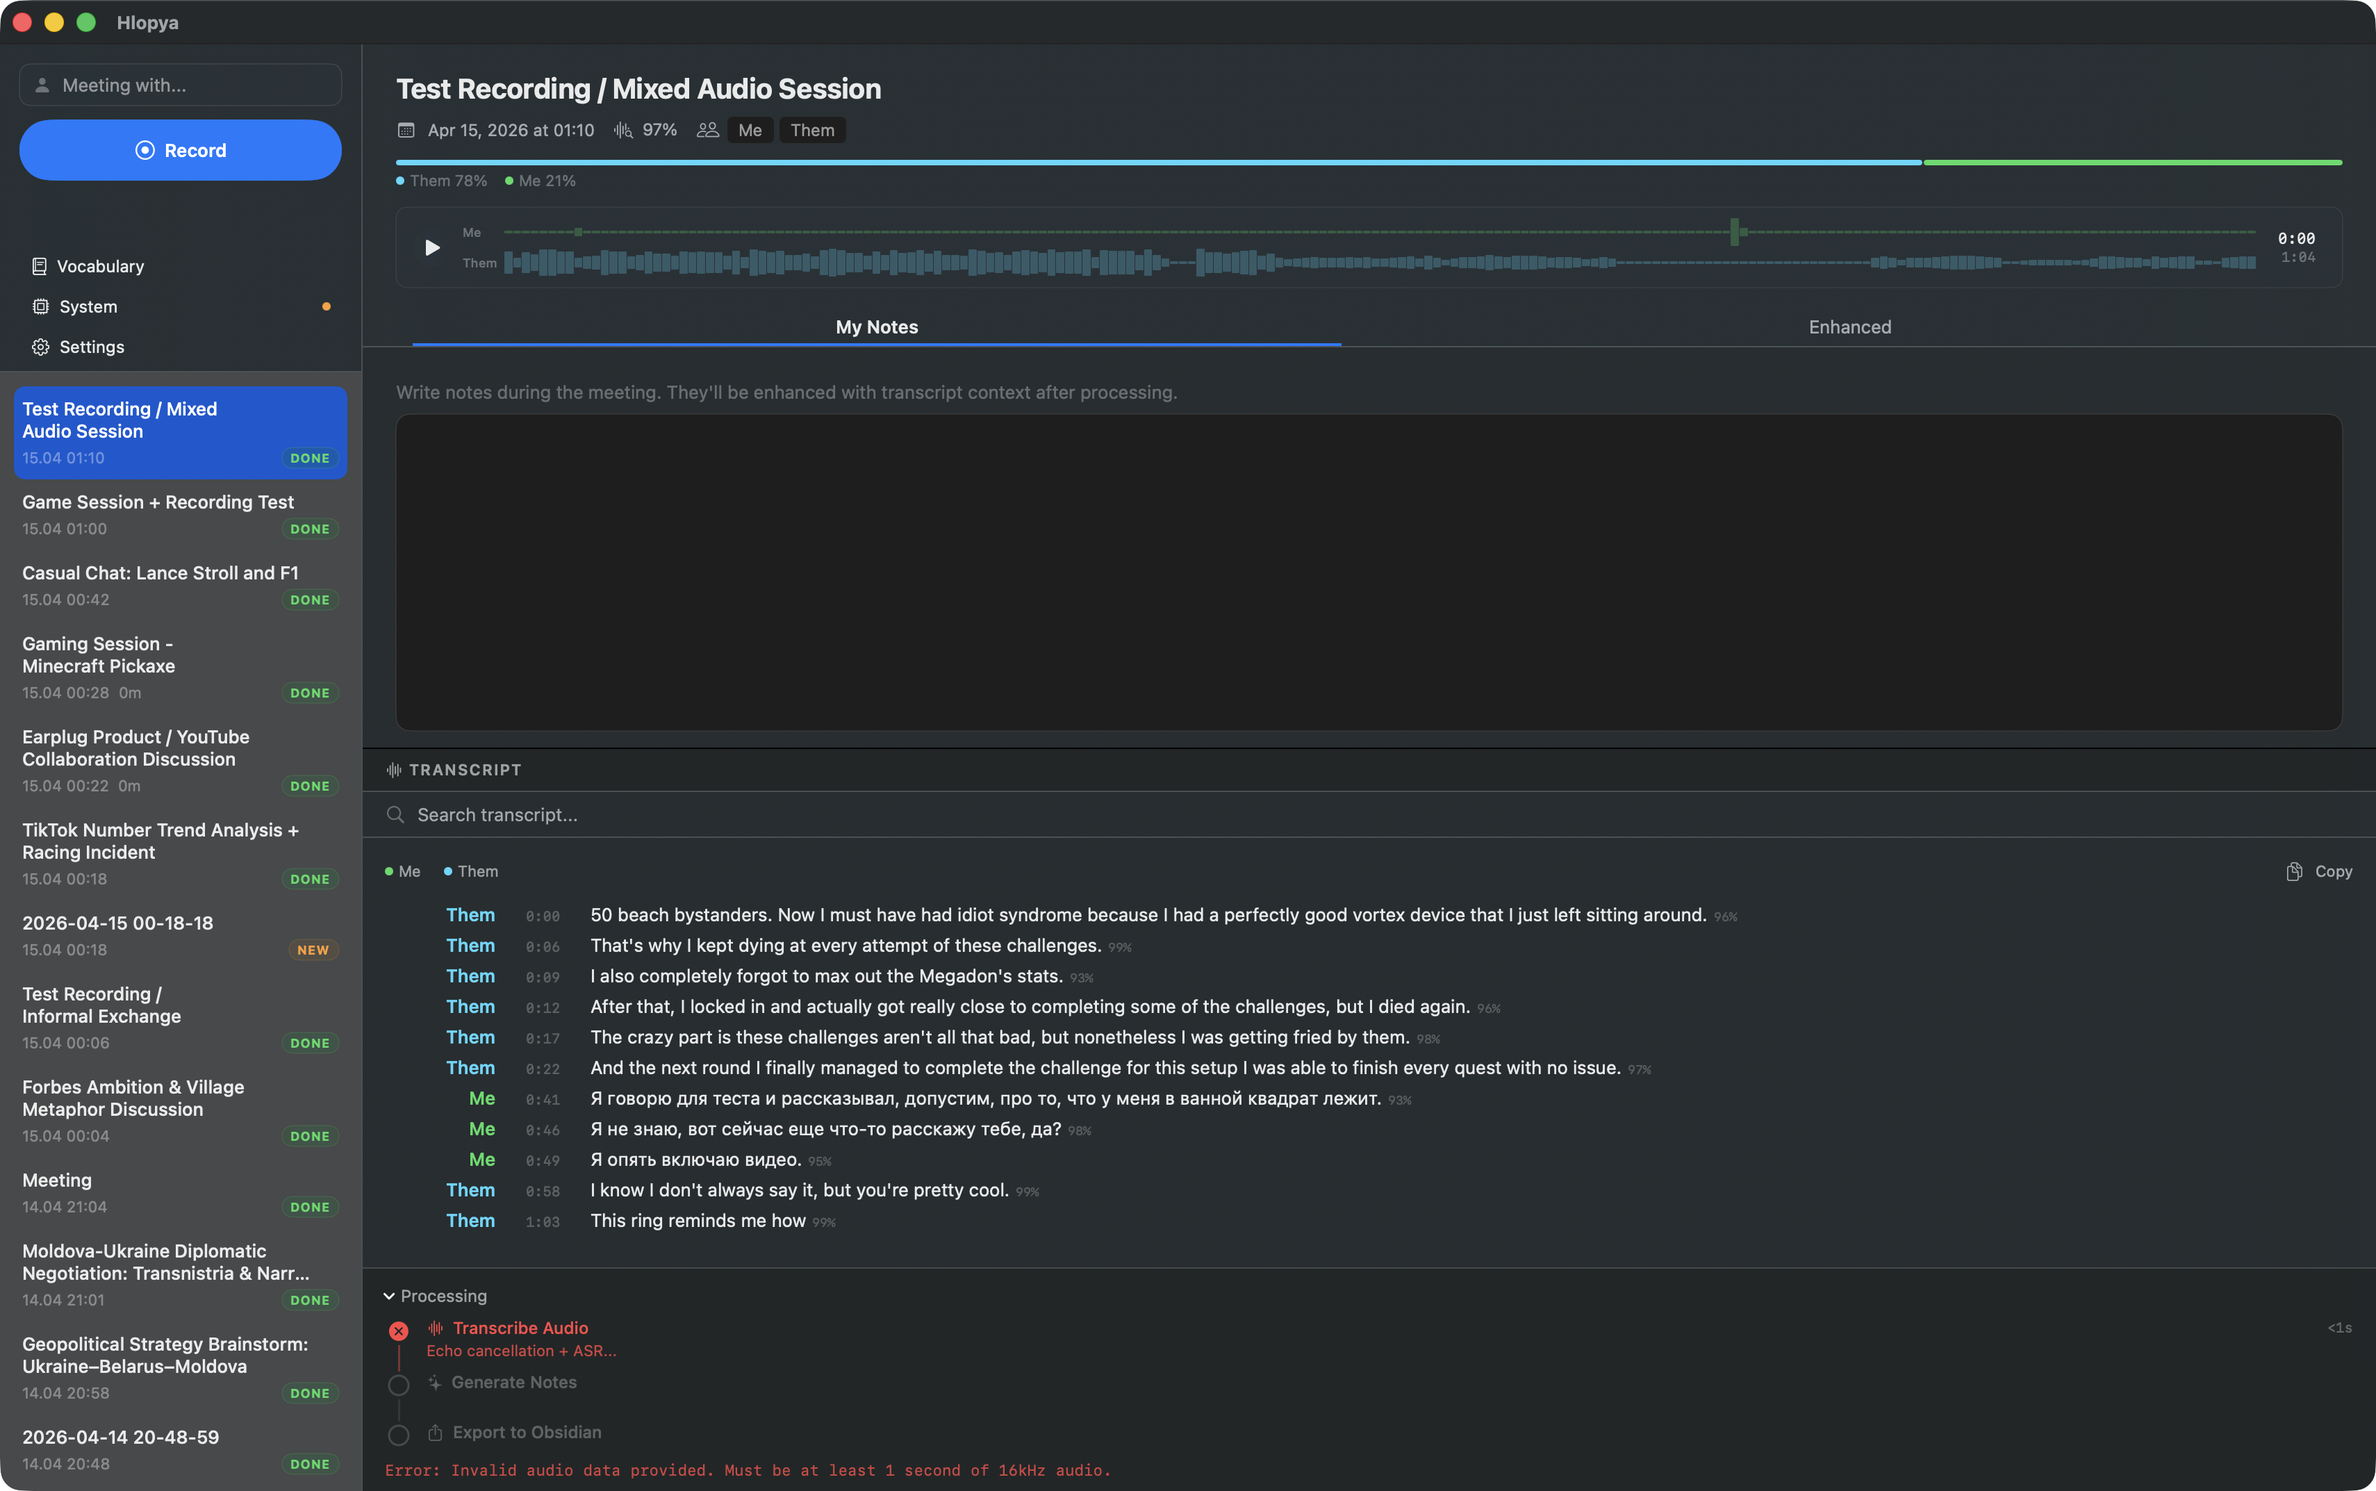
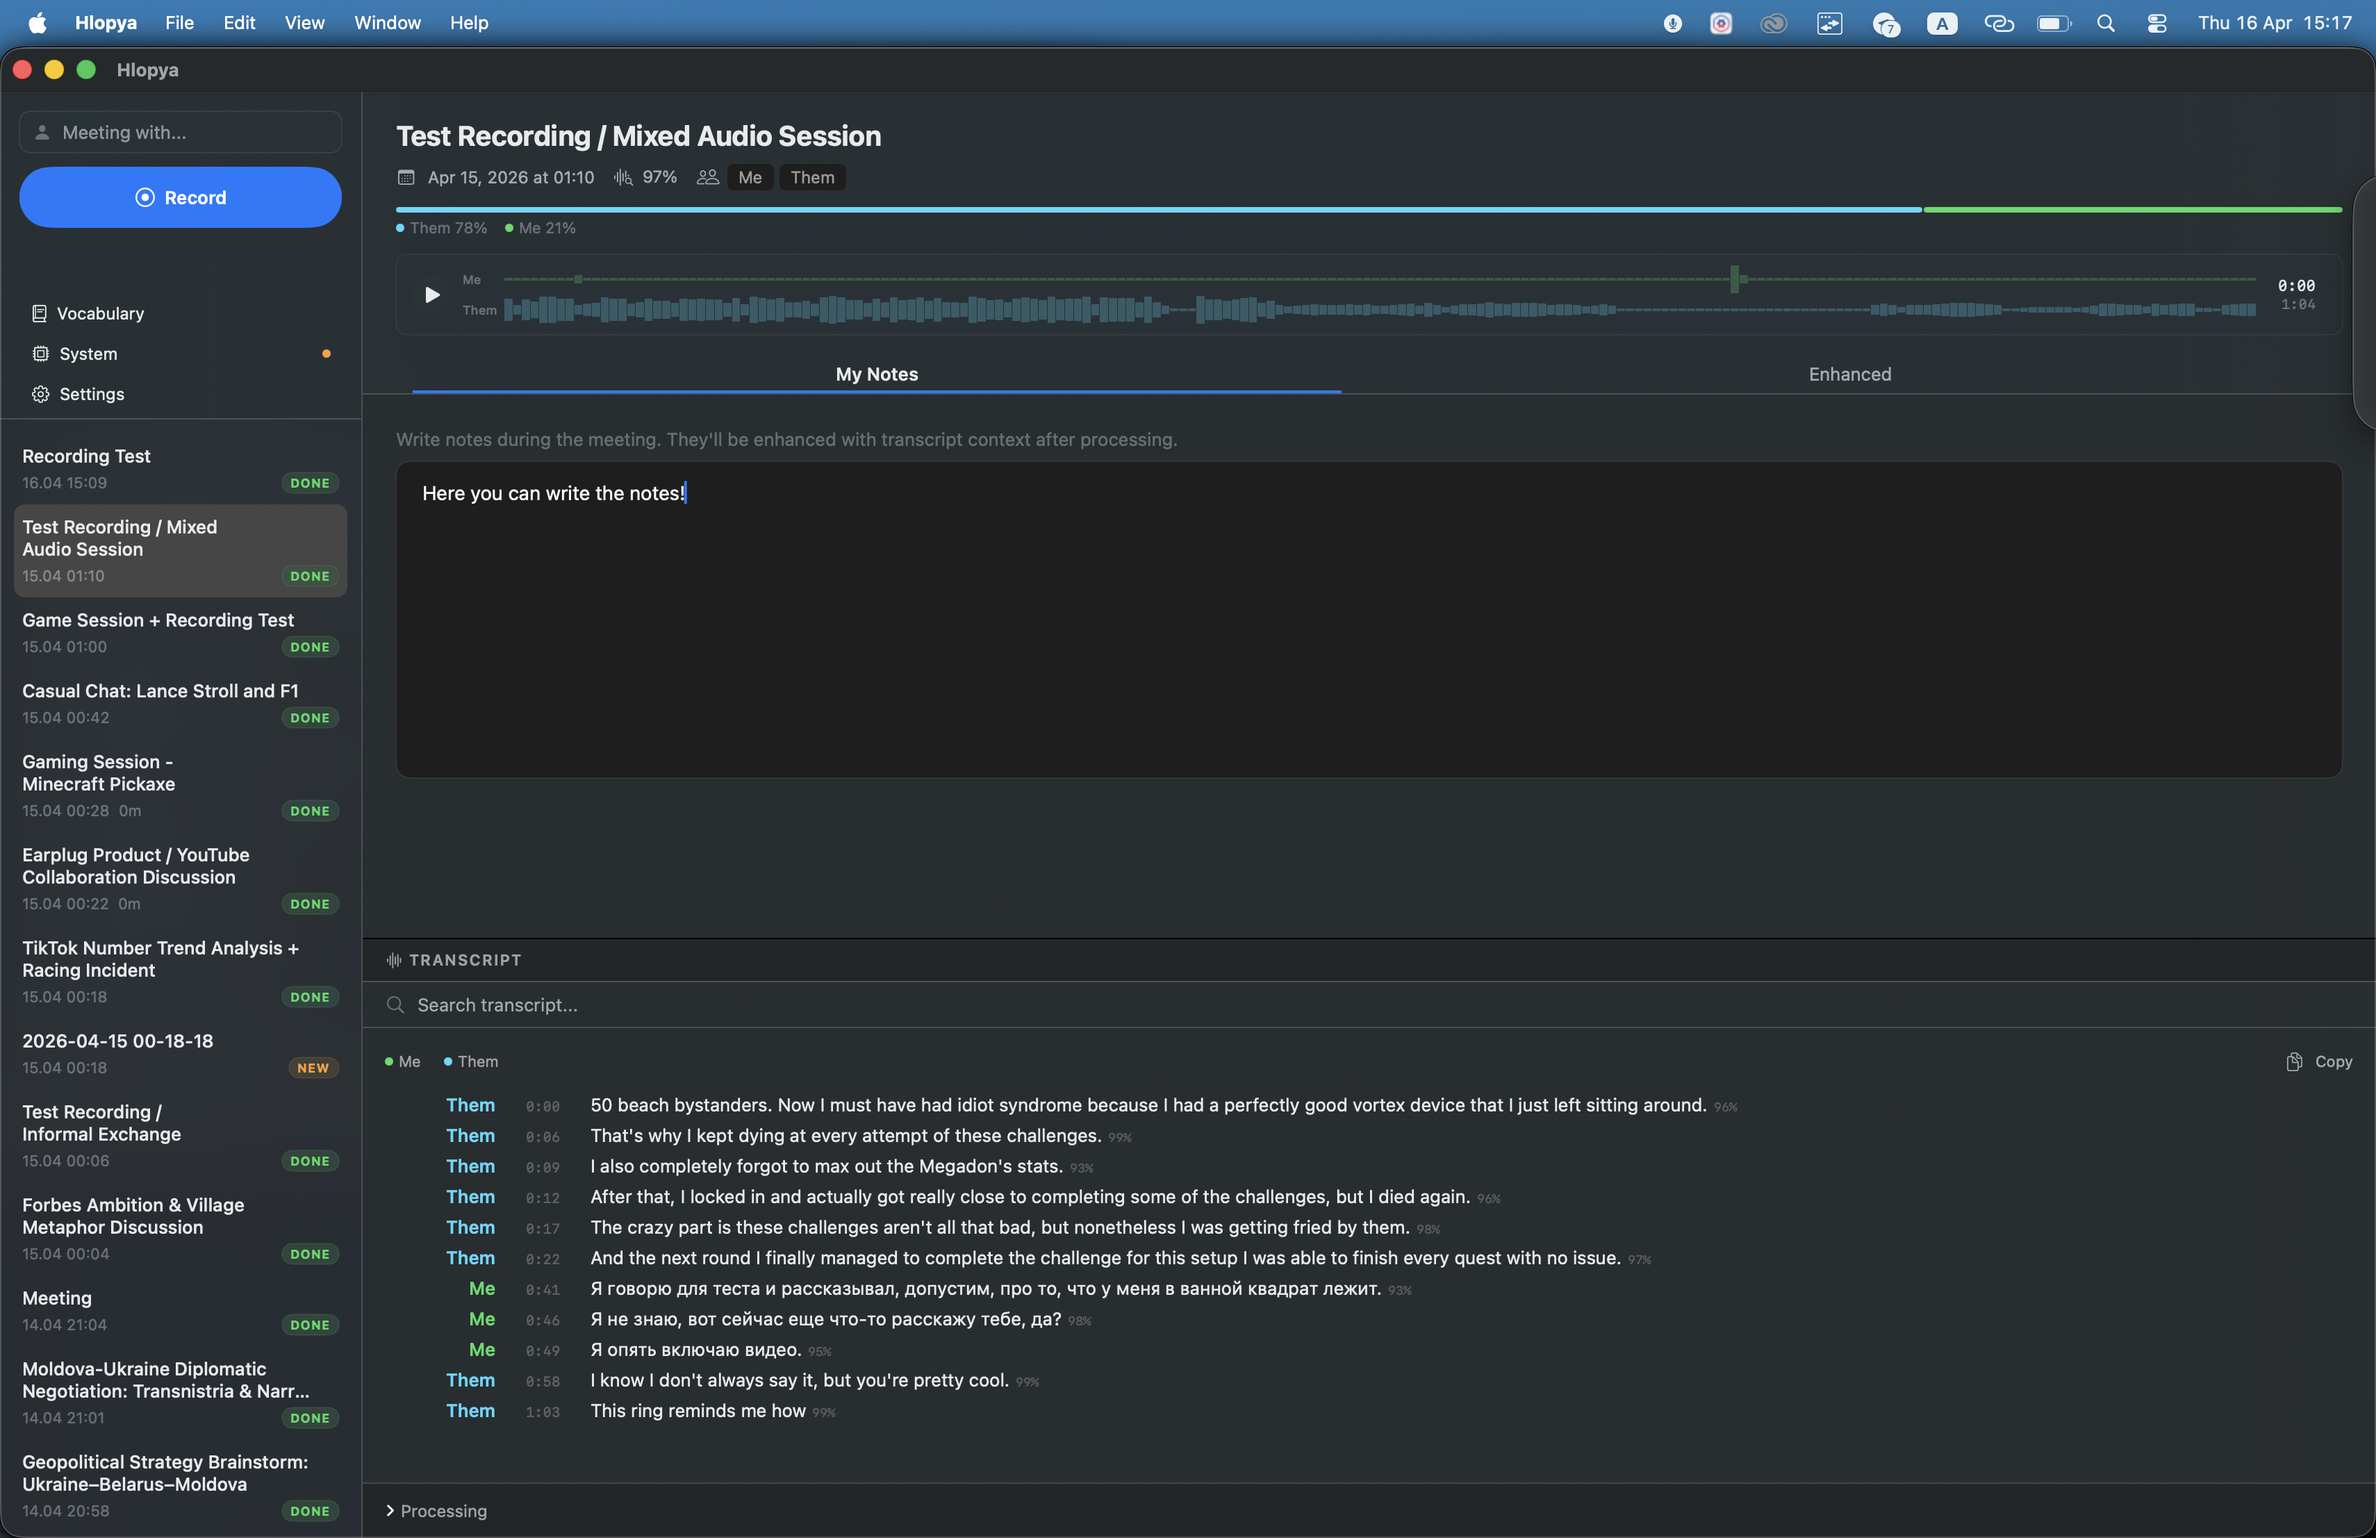
docs: better screenshots — live recording hero + Notes/Enhanced split
- Hero is now mid-recording: floating timer, REC badge in sidebar,
  live session at the top — proves it actually does the thing
- 'You write rough notes, Claude rewrites them' section: side-by-side
  My Notes (raw) vs Enhanced (Claude's structured Russian/English
  rewrite). Tells the value-prop story in one glance.

Changed region(s): [[0.0, 0.0, 1.0, 1.0], [0.9918, 0.4995, 1.0, 0.562]]

diff --git a/README.md b/README.md
@@ -19,7 +19,8 @@ Records your calls, transcribes them on-device, and writes the notes for you.
 ---
 
 <div align="center">
-  <img src="docs/images/hero.png" alt="Hlopya main window with diarized Russian transcript" width="900" />
+  <img src="docs/images/recording.png" alt="Hlopya recording a live session" width="900" />
+  <p><sub>Live recording — floating timer in the corner, sessions list updating in real time, ready for your notes.</sub></p>
 </div>
 
 ## Why Hlopya
@@ -34,11 +35,22 @@ Hlopya is the local alternative.
 - ⚡ **Auto-records calls.** Detects when Zoom/Meet/FaceTime grabs your mic and starts recording. You forget. It remembers.
 - 📝 **Notes worth keeping.** Summary, action items, decisions, enriched bullets — generated by Claude from the diarized transcript, then exported straight to your Obsidian vault.
 
-## What it looks like
+## You write the rough notes, Claude rewrites them
 
-<img src="docs/images/notes.png" alt="My Notes tab + transcript with diarization" width="900" />
+<table>
+  <tr>
+    <td width="50%" valign="top">
+      <img src="docs/images/notes.png" alt="My Notes tab — what you type during the call" />
+      <p align="center"><sub><b>My Notes</b> — type whatever you want during the call. Half-words, half-thoughts, fine.</sub></p>
+    </td>
+    <td width="50%" valign="top">
+      <img src="docs/images/enhanced.png" alt="Enhanced tab — Claude's structured rewrite" />
+      <p align="center"><sub><b>Enhanced</b> — Claude reads the diarized transcript + your notes and rewrites them into clean sections. Russian, English, mixed — doesn't care.</sub></p>
+    </td>
+  </tr>
+</table>
 
-Sidebar = every recorded session. Top = audio waveform. Below = your personal notes during the call (left) or the AI-enriched version (right). Bottom = full diarized transcript, **Me** vs **Them**, every line timestamped and copy-friendly.
+Sidebar = every recorded session. Top = audio waveform. Bottom = full diarized transcript, **Me** vs **Them**, every line timestamped and copy-friendly.
 
 ## How it works
 
